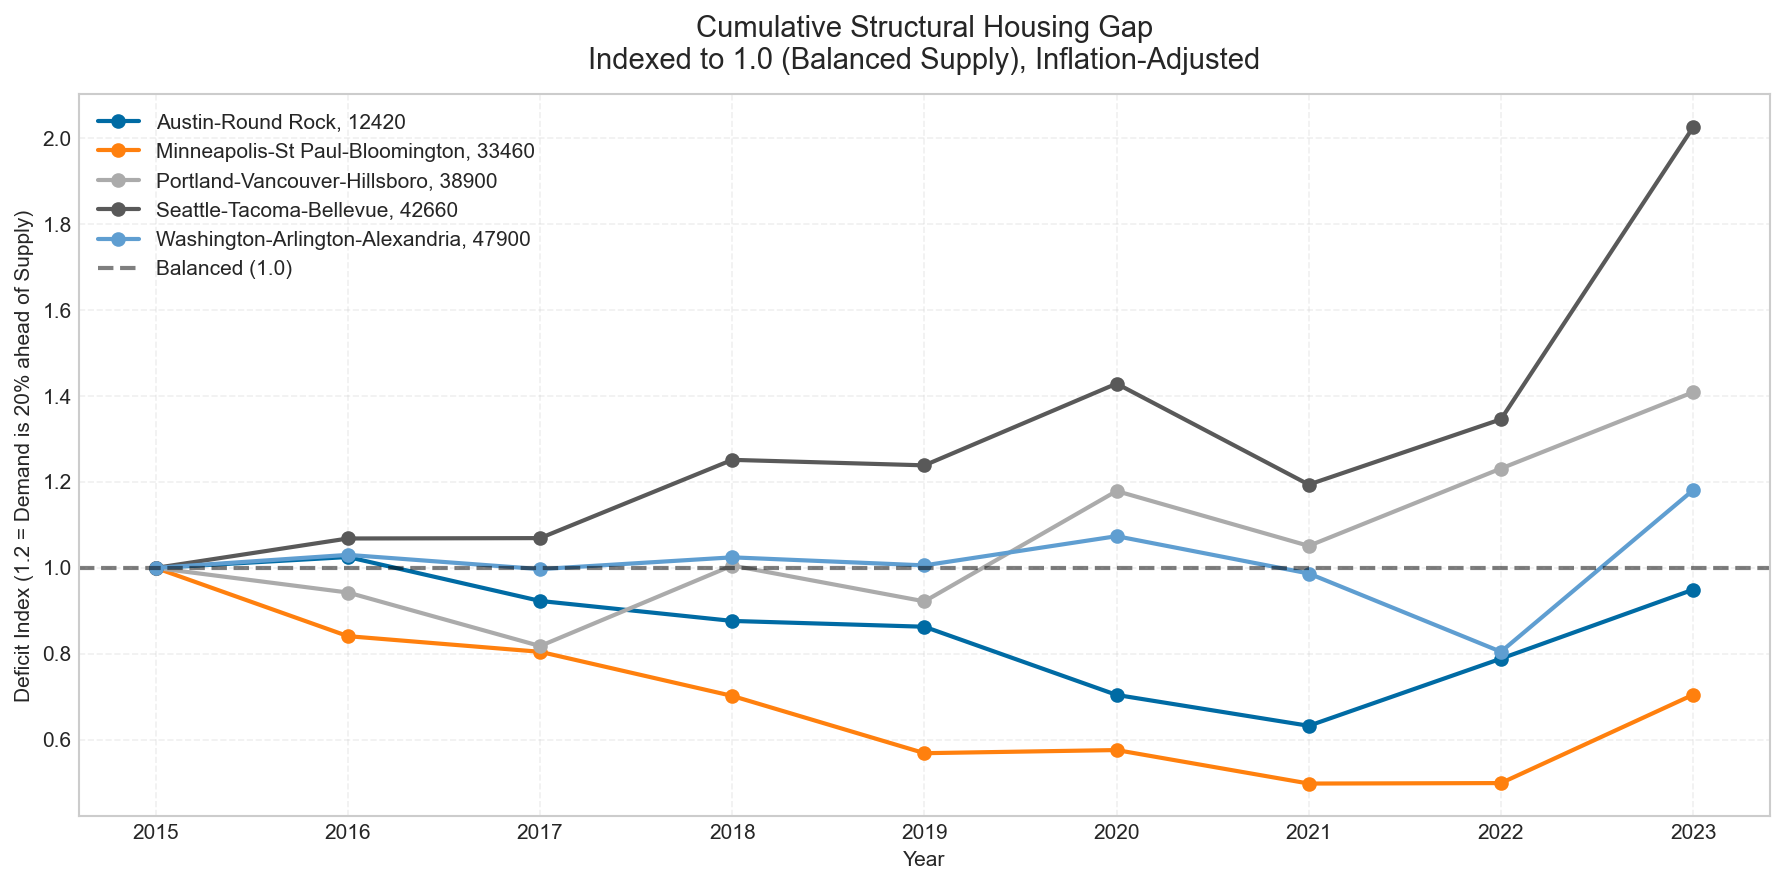
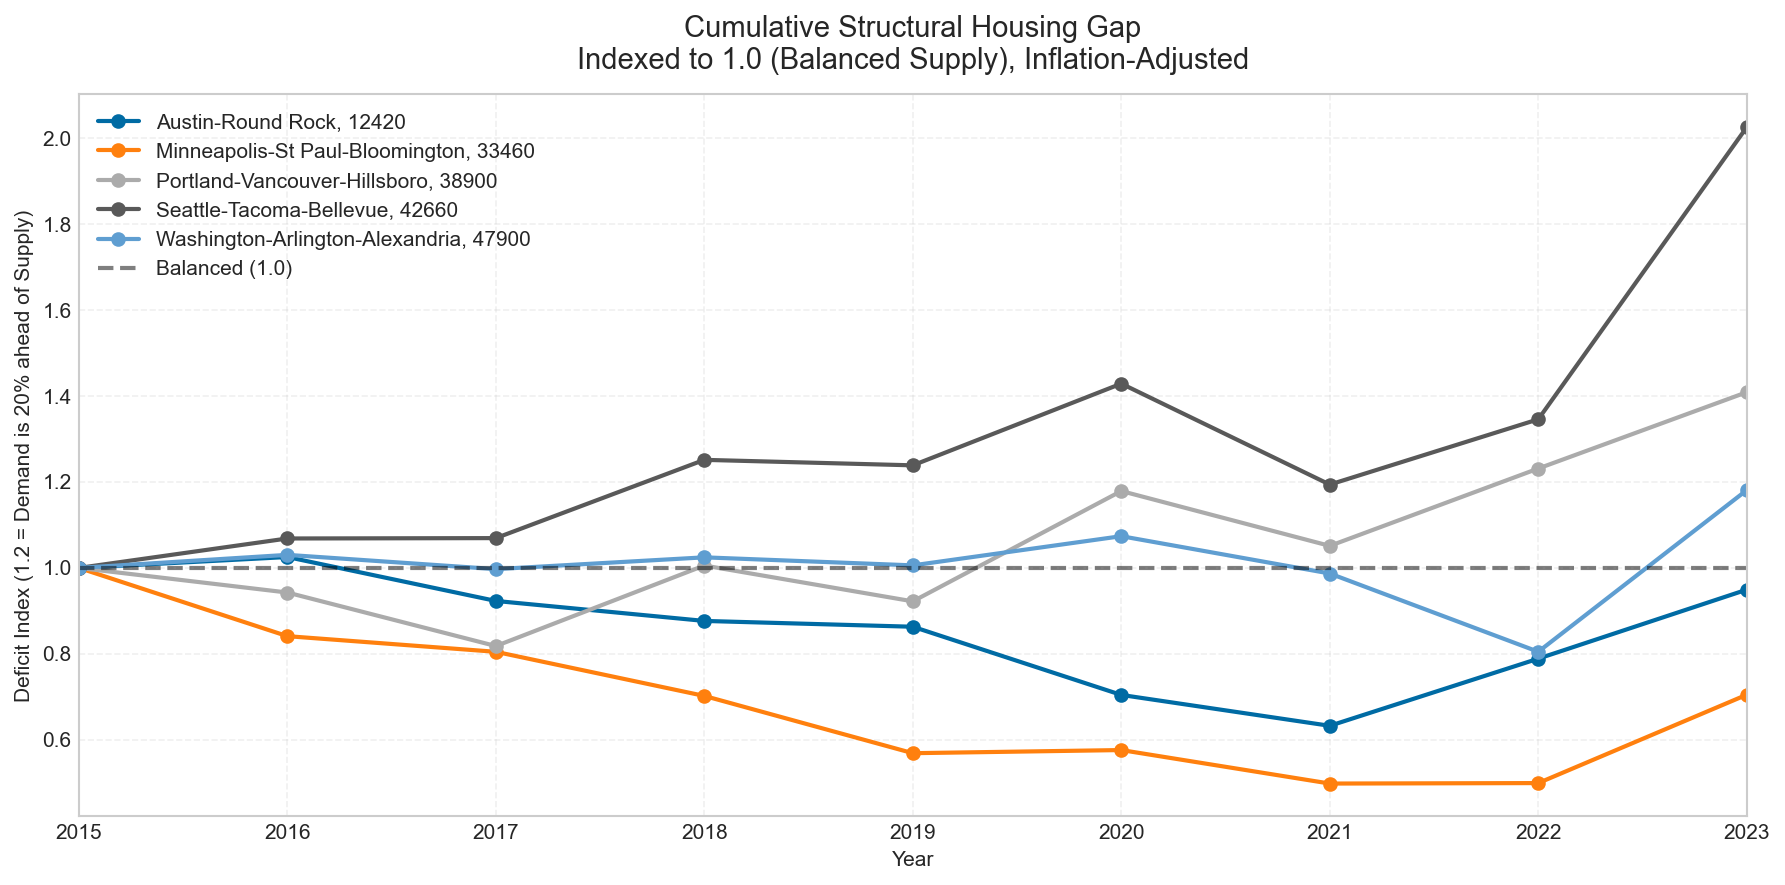
Updated readme and charts, readded 2nd chart cell.

diff --git a/README.md b/README.md
@@ -26,6 +26,8 @@ The project is designed as a **reference implementation** for:
 
 This is **not** a predictive model. The focus is clarity, reproducibility, and extensibility.
 
+v2.1 adds unit-level permit composition (1-unit, 3–4 unit, 5+ unit) to distinguish how housing is being built, not just how much. This enables clearer interpretation of supply responsiveness in constrained metros.
+
 ---
 
 ## Why This Project Exists
@@ -100,6 +102,7 @@ pyproject.toml
 ### Census — Building Permits Survey
 - Monthly CBSA‑level housing permits
 - Aggregated to annual totals during processing
+- 1 Unit and 5 Units+ provide info on how dense the new construction is
 
 ### Census — Population Estimates
 - Annual CBSA population totals
@@ -215,5 +218,6 @@ This preserves reproducibility while allowing controlled expansion.
 - Introduced Parquet lake as optional extension
 - Clarified scope and classification logic
 - Added architecture section
+- Added permits density data to the permits chart
 
-Last updated: 2026‑02‑05
+Last updated: 2026‑02‑06
